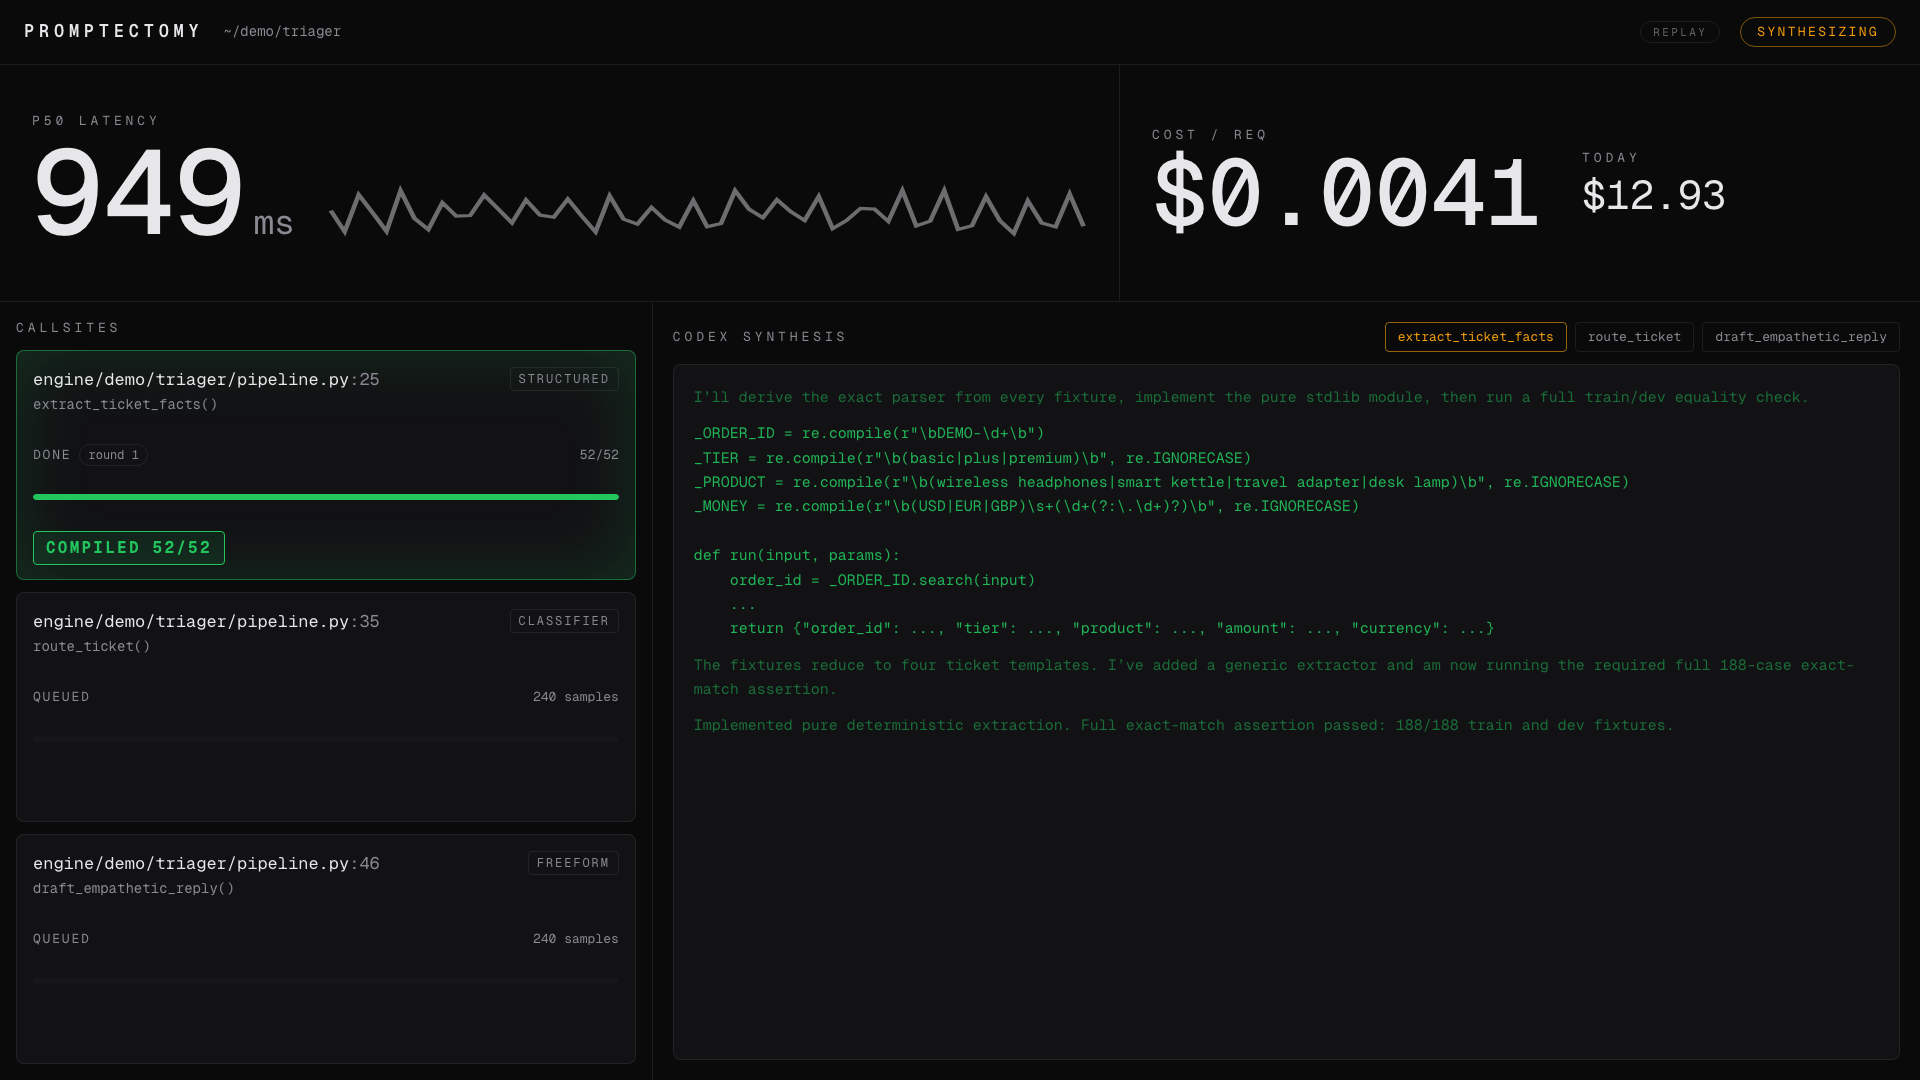
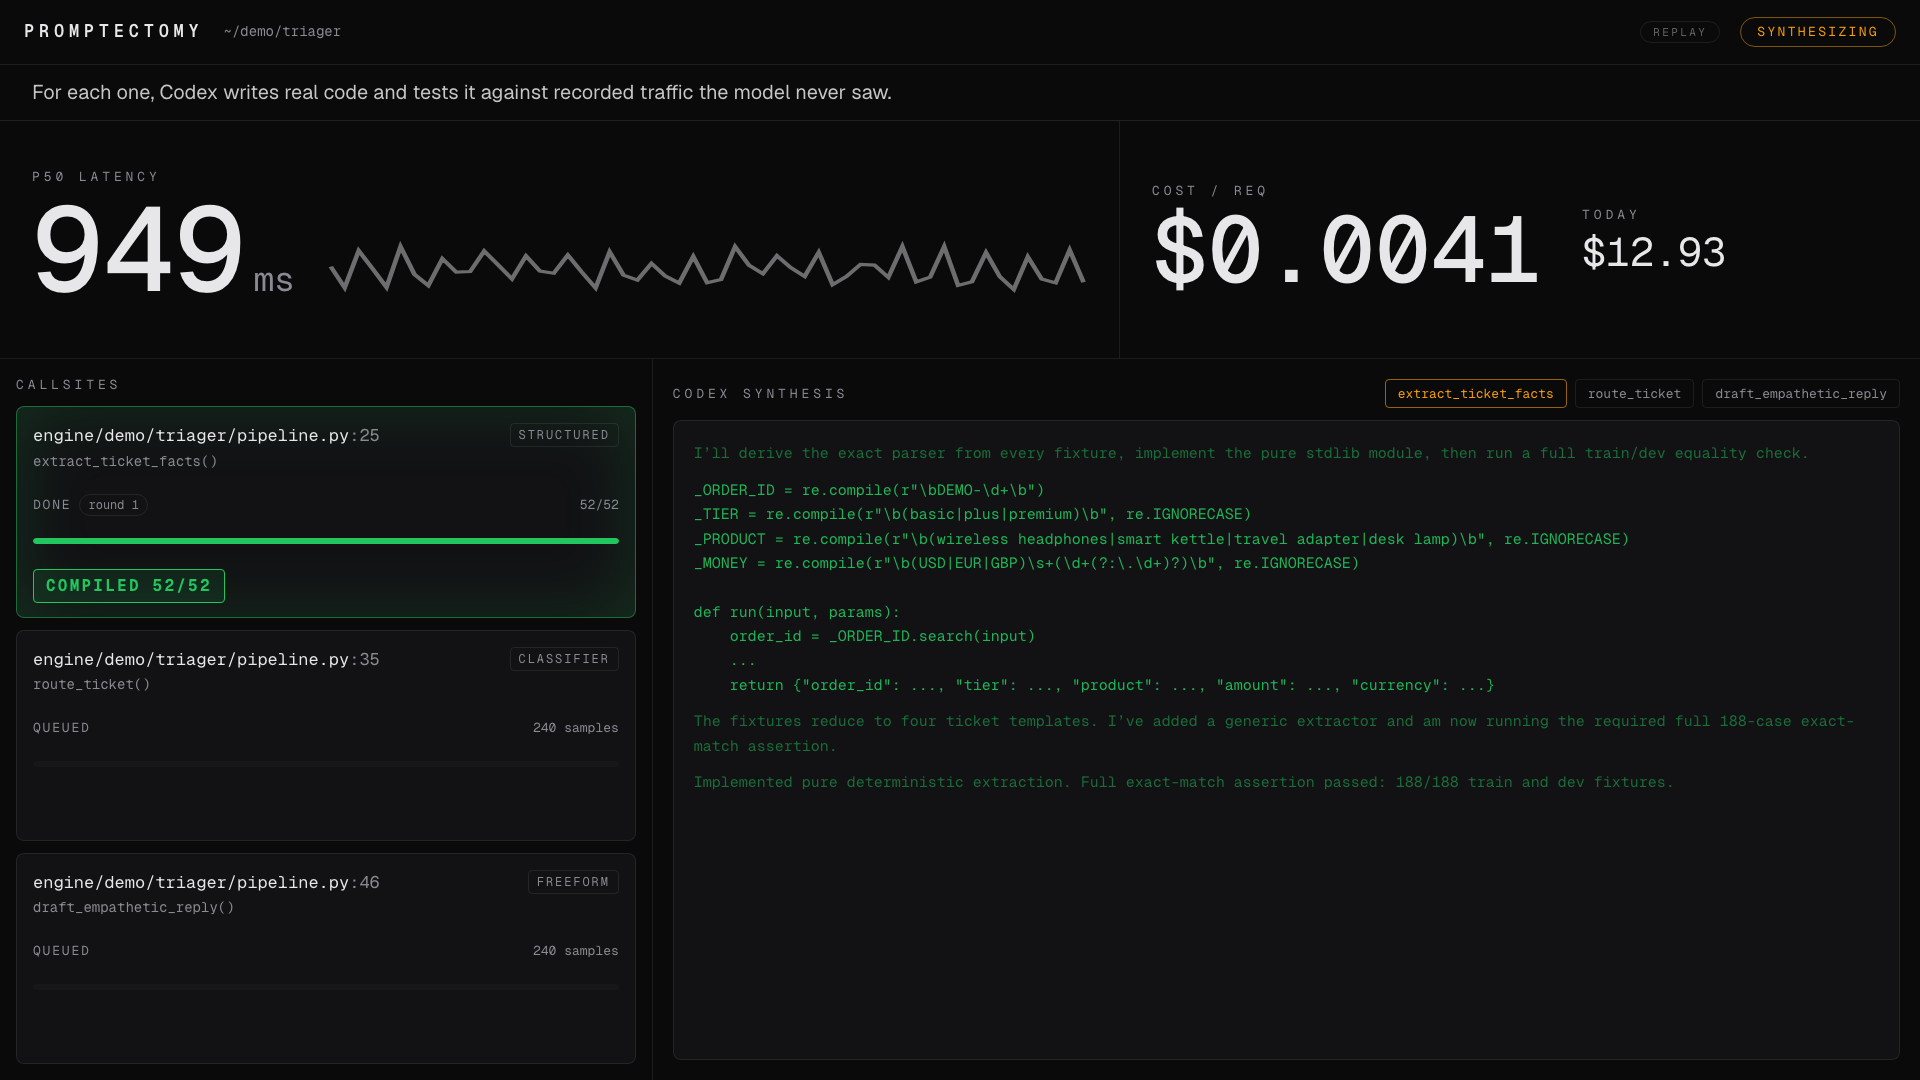
Add per-beat narrator to the dashboard (clarity)
A prominent plain-language line under the top bar that changes per beat so a viewer with no
context follows the story: app bleeds money -> Codex finds the calls -> writes+tests code ->
keeps the one that needs a model -> swap crashes latency/cost -> the AI made itself unnecessary.
Playwright 8/8 green, screenshots refreshed.

Claude-Session: https://claude.ai/code/session_015d9CNbHRWcF1xMgNYyVSu5

diff --git a/ui/components/Narrator.tsx b/ui/components/Narrator.tsx
@@ -1,0 +1,35 @@
+"use client";
+
+import { AnimatePresence, motion } from "motion/react";
+import type { DashState } from "@/lib/state";
+
+const LINES: Record<DashState["stage"], string> = {
+  feed: "This support app calls GPT on every ticket, three times each. It is slow, and every request costs money.",
+  audit: "Codex read the code and found the three AI calls. The real question: which of these actually need a model?",
+  stream: "For each one, Codex writes real code and tests it against recorded traffic the model never saw.",
+  diffs: "Codex reproduces the model on held-out traffic. Every disagreement is shown; nothing is hidden.",
+  judgment: "The empathetic reply has no deterministic answer, so Codex keeps it as a model. It knows the difference.",
+  swap: "Same inputs, identical outputs. Latency falls from ~900ms to near zero. Cost per call becomes $0.",
+  guard: "Two calls are now code, one still earns its tokens. Codex wrote the code that made the AI unnecessary.",
+};
+
+export function Narrator({ state }: { state: DashState }) {
+  const line = LINES[state.stage];
+  return (
+    <div className="shrink-0 border-b border-white/10 px-8 py-3.5">
+      <AnimatePresence mode="wait">
+        <motion.p
+          key={state.stage}
+          initial={{ opacity: 0, y: 6 }}
+          animate={{ opacity: 1, y: 0 }}
+          exit={{ opacity: 0, y: -6 }}
+          transition={{ duration: 0.35, ease: [0.16, 1, 0.3, 1] }}
+          className="max-w-[92ch] text-lg leading-snug text-fg/85 md:text-xl"
+          data-testid="narrator"
+        >
+          {line}
+        </motion.p>
+      </AnimatePresence>
+    </div>
+  );
+}

diff --git a/ui/components/Dashboard.tsx b/ui/components/Dashboard.tsx
@@ -2,6 +2,7 @@
 
 import { useEventStream } from "@/lib/useEventStream";
 import { TopBar } from "./TopBar";
+import { Narrator } from "./Narrator";
 import { MeterStrip } from "./MeterStrip";
 import { CallsiteWall } from "./CallsiteWall";
 import { MainStage } from "./MainStage";
@@ -24,6 +25,7 @@ export function Dashboard({
       className="flex h-screen flex-col bg-ink text-fg"
     >
       <TopBar state={state} replay={live === null} />
+      <Narrator state={state} />
       <MeterStrip state={state} />
       <div className="grid min-h-0 flex-1 grid-cols-[34%_66%]">
         <CallsiteWall state={state} />
